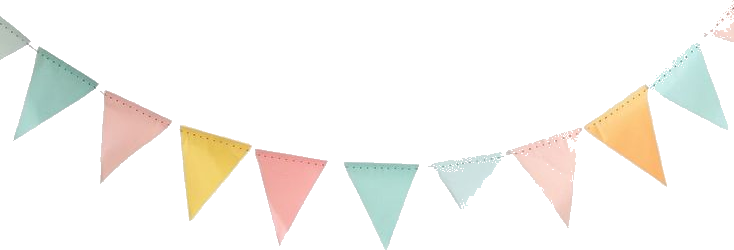
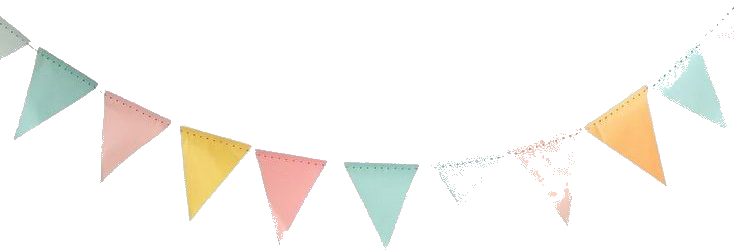
h

diff --git a/style.css b/style.css
@@ -112,6 +112,7 @@ body::before {
   #lights-page1 .light-unit:nth-child(18),
   #lights-page1 .light-unit:nth-child(19),
   #lights-page1 .light-unit:nth-child(20),
+  #lights-page1 .light-unit:nth-child(19),
   #lights-page1 .light-unit:nth-child(20),
   #lights-page1 .light-unit:nth-child(21),
   #lights-page1 .light-unit:nth-child(22) {
@@ -124,6 +125,7 @@ body::before {
   /* إخفاء أول 2 يسار وآخر 2 يمين في page1 فقط */
   #lights-page1 .light-unit:nth-child(1),
   #lights-page1 .light-unit:nth-child(2),
+  #lights-page1 .light-unit:nth-child(19),
   #lights-page1 .light-unit:nth-child(20),
   #lights-page1 .light-unit:nth-child(21),
   #lights-page1 .light-unit:nth-child(22) {

diff --git a/index.html b/index.html
@@ -39,7 +39,7 @@
   </div>
 
   <!-- زينة أركان الصفحة الأولى -->
-  <img src="images/bunting.png" class="bunting-corner right" id="bunting-right" alt="">
+  <img src="images/bunting_right.png" class="bunting-corner right" id="bunting-right" alt="">
   <img src="images/bunting.png" class="bunting-corner left"  id="bunting-left"  alt="">
 
   <!-- اللمبات - للصفحة الثانية -->
